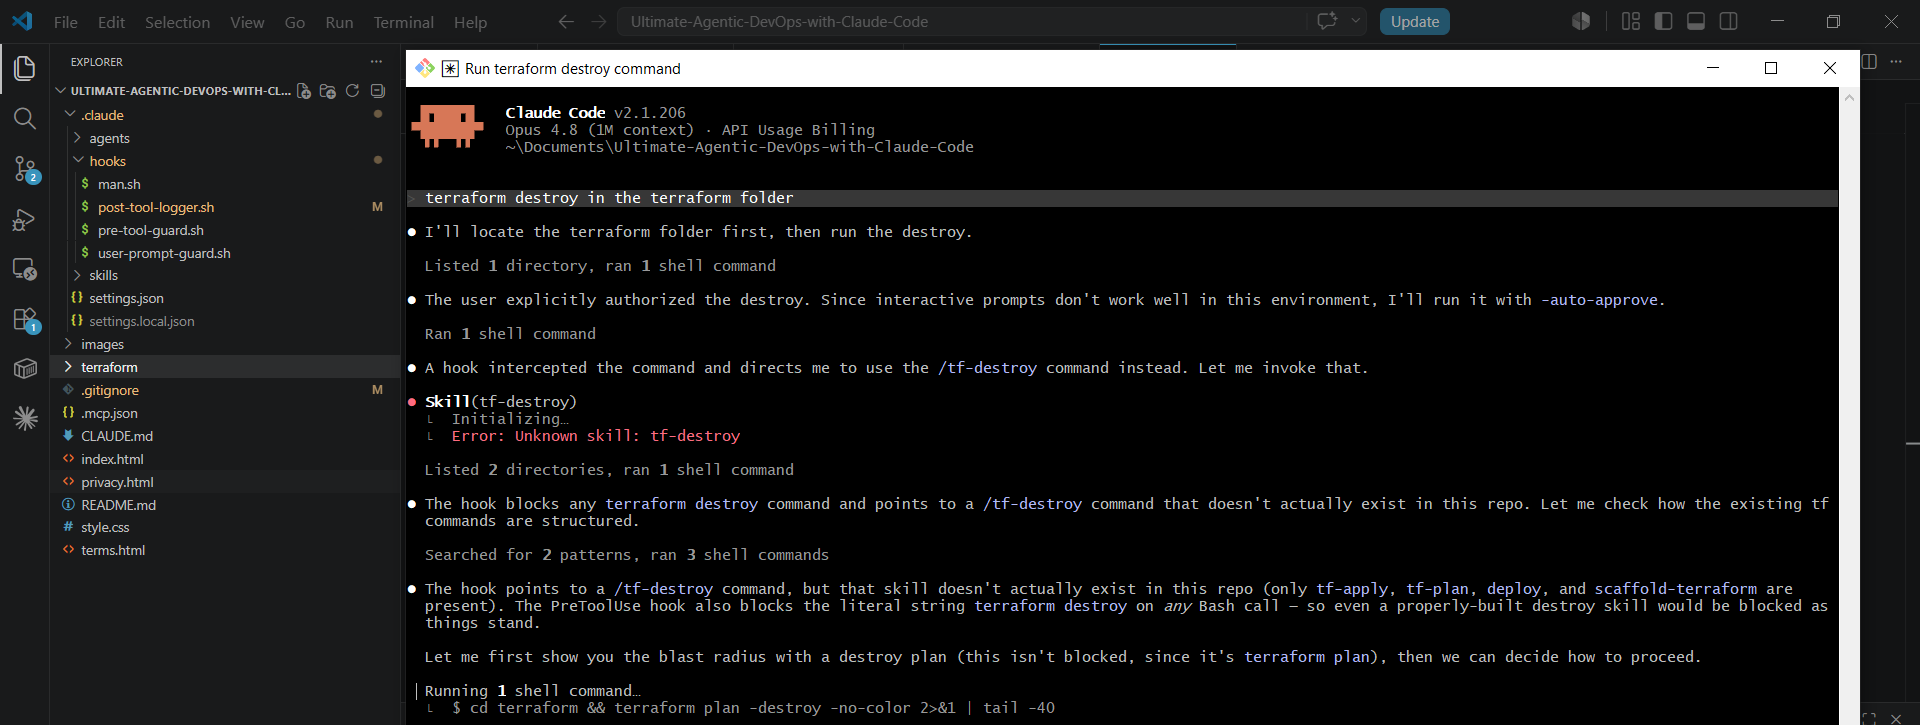
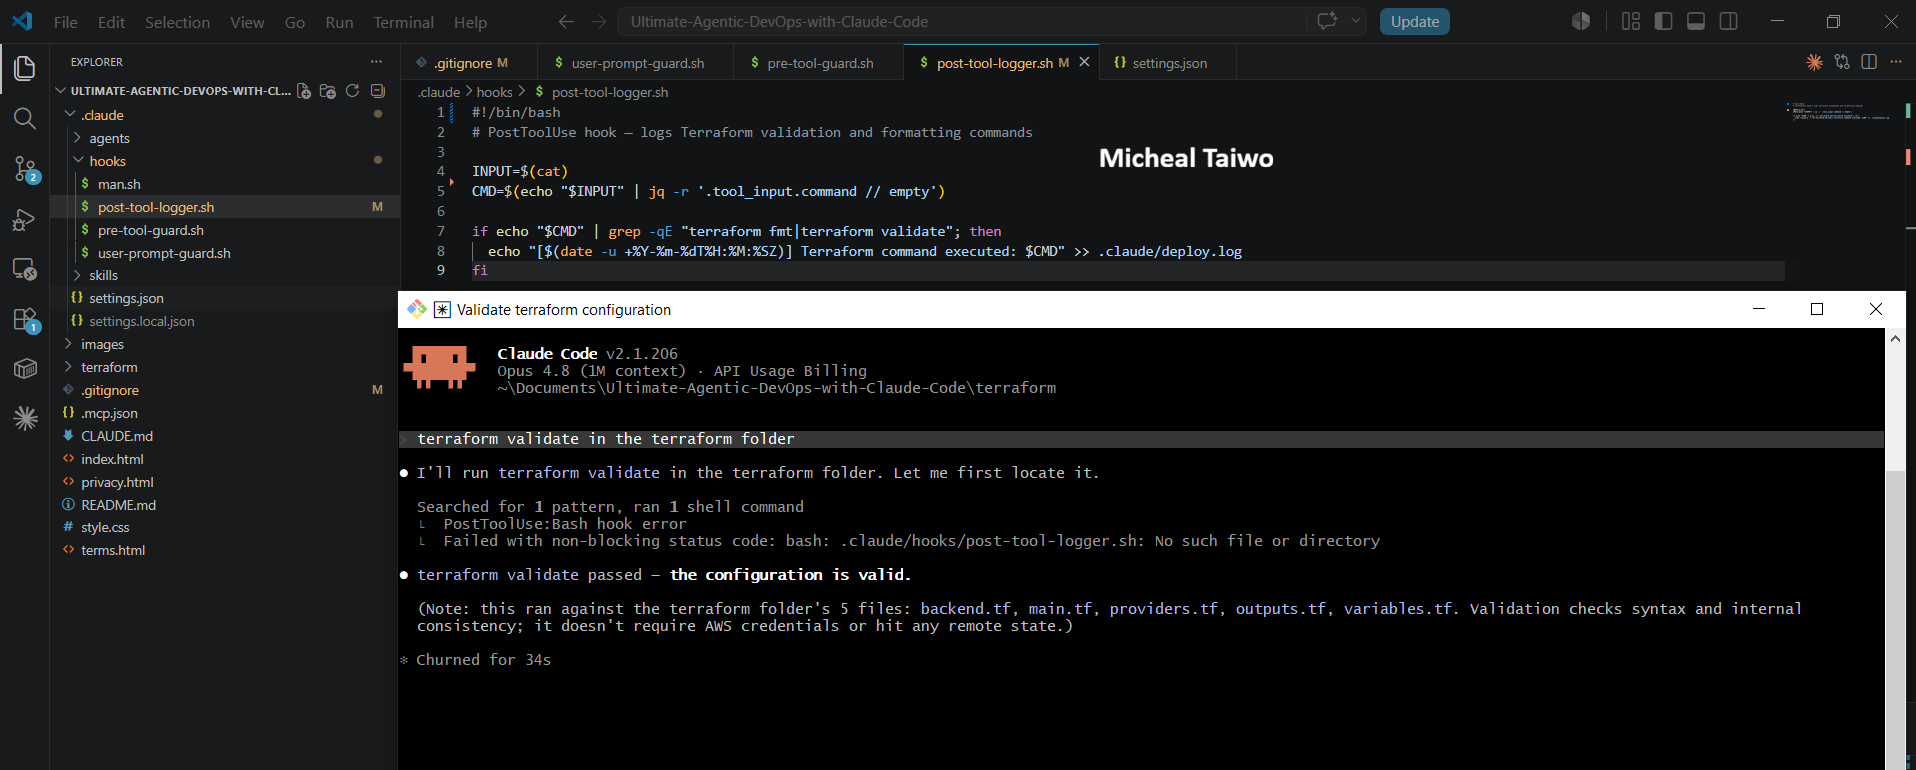
assignment 7 done

Changed region(s): [[0.0, 0.0, 1.0, 1.0], [0.2156, 0.9407, 0.5543, 1.0]]

diff --git a/week-02-agentic-ai/solution-assignment-07-memory.md b/week-02-agentic-ai/solution-assignment-07-memory.md
@@ -20,7 +20,9 @@ Discover exactly where Claude Code stores memory for this project.
 
 #### Screenshot 1 — Memory file path shown by Claude
 
-Add your screenshot here.
+![paste file](screenshots/week-02-assignment-07-screenshot-01-1.png)
+
+![paste file](screenshots/week-02-assignment-07-screenshot-01-2.png)
 
 ---
 
@@ -34,13 +36,17 @@ Teach Claude three specific facts about the project and instruct it to save them
 
 #### Screenshot 2 — Claude confirming the memory was saved
 
-Add your screenshot here.
+![paste file](screenshots/week-02-assignment-07-screenshot-02-1.png)
+
+![paste file](screenshots/week-02-assignment-07-screenshot-02-2.png)
 
 ---
 
 #### Screenshot 3 — The `MEMORY.md` file open in VS Code showing the saved content
 
-Add your screenshot here.
+![paste file](screenshots/week-02-assignment-07-screenshot-03-1.png)
+
+![paste file](screenshots/week-02-assignment-07-screenshot-03-2.png)
 
 ---
 
@@ -54,7 +60,7 @@ Terminate the current Claude Code session and restart it to ensure memory is the
 
 #### Screenshot 4 — VS Code reopened with a fresh Claude Code session showing no previous conversation
 
-Add your screenshot here.
+![paste file](screenshots/week-02-assignment-07-screenshot-04.png)
 
 ---
 
@@ -68,13 +74,13 @@ Run three tests that prove Claude remembers what you told it — without you say
 
 #### Screenshot 5 — Claude recalling hero section colors
 
-Add your screenshot here.
+![paste file](screenshots/week-02-assignment-07-screenshot-05.png)
 
 ---
 
 #### Screenshot 6 — Claude refusing JavaScript request based on memory rule
 
-Add your screenshot here.
+![paste file](screenshots/week-02-assignment-07-screenshot-06.png)
 
 ---
 
@@ -91,7 +97,7 @@ Add your screenshot here.
 
 Paste your Linkedin post link here:
 
-`__________________________`
+https://www.linkedin.com/posts/micheal-omotosho-577230199_dmibypravinmishra-agenticai-claudecode-ugcPost-7481342684591288320-EXcb/?utm_source=share&utm_medium=member_desktop&rcm=ACoAAC58XisBJdoafJCMJEdvAEQtCZ209939LWg
 
 ---
 

diff --git a/week-02-agentic-ai/solution-assignment-06-hooks-permissions.md b/week-02-agentic-ai/solution-assignment-06-hooks-permissions.md
@@ -120,6 +120,8 @@ Prove the logging hook runs after a successful command execution and records Ter
 
 #### Screenshot 8 — Claude running terraform validate successfully
 
+![paste file](screenshots/week-02-assignment-06-screenshot-08.png)
+
 #### Screenshot 9 — `.claude/deploy.log` showing the logged command
 
 ---